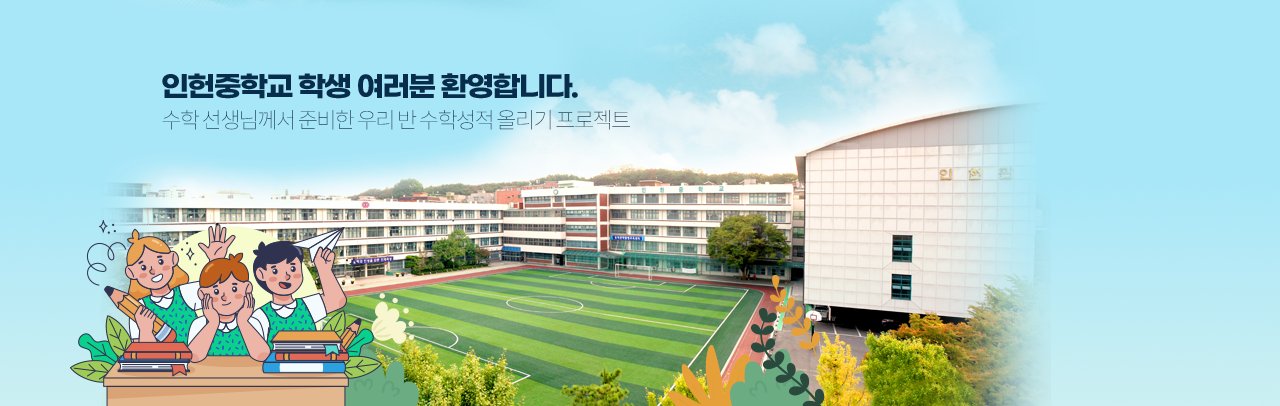
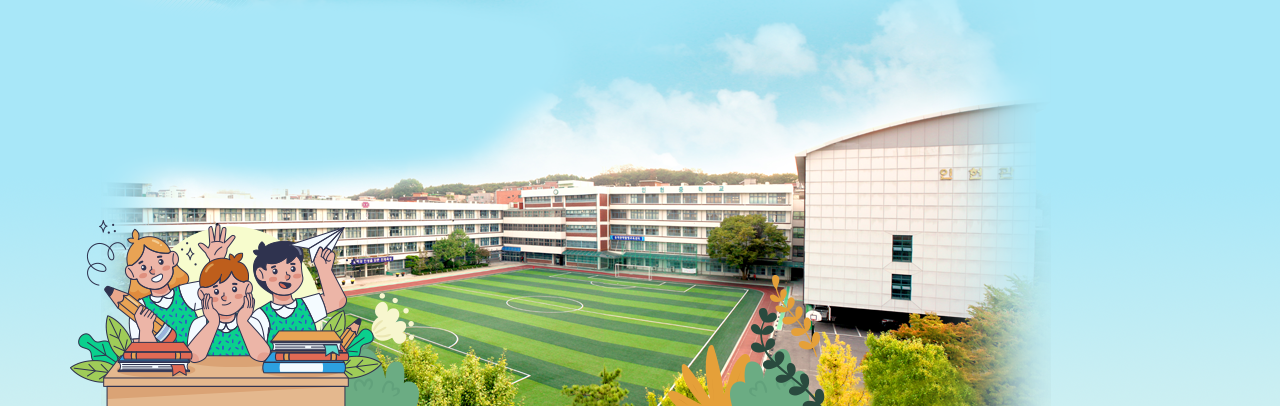
랜딩페이지 수정

Changed region(s): [[0.125, 0.1773, 0.5, 0.3251]]

diff --git a/howhyclass/student/landings/theme.css b/howhyclass/student/landings/theme.css
@@ -8772,10 +8772,37 @@ h1,.h1,h2,.h2,h3,.h3,h4,.h4,h5,.h5,h6,.h6 {font-family: "Noto Sans KR", 'SUIT', 
     max-width: 1440px;
     margin: 0 auto;
     
-    .section-heading:first-of-type{display: none;}
-    .section-intro{display: none;}
+    .section-heading:first-of-type{
+        font-family: var(--font-gmarket);
+        font-size: 28px !important;
+        line-height: 1;
+        color: #082c4b;
+        margin: 0 0 5px !important;
+    }
+    .section-intro{
+        font-size: 22px;
+        line-height: 1;
+        letter-spacing: -1px;
+    }
 
-    .section-heading:not(:first-of-type){
+    .text-box{
+        width: 1280px;
+        max-width: calc(100% - 40px);
+        position: absolute;
+        top: 145px; left: 50%;
+        transform: translateX(-50%);
+        z-index: 99;
+        padding-left: 60px;
+        box-sizing: border-box;
+        .section-heading{text-align: left !important;}
+        .section-intro{
+            max-width: none;
+            text-align: left !important;
+        }
+    }
+
+    .section-heading:not(:first-of-type),
+    .section-heading2{
         background: var(--main-color-blue);
         font-family: var(--font-gmarket);
         color: #fff;
@@ -8786,7 +8813,7 @@ h1,.h1,h2,.h2,h3,.h3,h4,.h4,h5,.h5,h6,.h6 {font-family: "Noto Sans KR", 'SUIT', 
         border-radius: 30px 30px 0 0;
         position: relative;
         margin-bottom: 335px !important;
-        &::after{
+        &::before{
             content: '';
             display: block;
             width: 100%;
@@ -9053,8 +9080,7 @@ h1,.h1,h2,.h2,h3,.h3,h4,.h4,h5,.h5,h6,.h6 {font-family: "Noto Sans KR", 'SUIT', 
     .drop-box-content {
         display: none;
         position: absolute;
-        bottom: 110%;
-        left: 0%;
+        bottom: 110%; left: 0%;
         width: 100%;
         border-radius: 10px;
         background: var(--Pay_White, #FFF);
@@ -9081,6 +9107,12 @@ h1,.h1,h2,.h2,h3,.h3,h4,.h4,h5,.h5,h6,.h6 {font-family: "Noto Sans KR", 'SUIT', 
     }
 }
 
+@media (max-width: 1280px) {
+    .audience-section .text-box{
+        left: 0;
+        transform: translateX(0);
+    }
+}
 @media (max-width: 1024px) {
     .hero-section .row:nth-child(2) .col-md-8 img{transform: translateX(-5%);}
     .form-section{

diff --git a/howhyclass/student/landings/index.html b/howhyclass/student/landings/index.html
@@ -47,10 +47,19 @@
     
     <section id="audience-section" class="audience-section py-5">
         <div class="container">
-            <h2 class="section-heading text-center mb-4">인헌중학교 학생 여러분 환영합니다.</h2>
-            <div class="section-intro single-col-max mx-auto text-center mb-5">수학 선생님께서 준비 한 우리 반 수학성적 올리기 프로젝트</div>
+            
+            <!-- 241216 div.text-box 추가 시작 -->
+            <div class="text-box">
+                <h2 class="section-heading text-center mb-4">인헌중학교 학생 여러분 환영합니다.</h2>
+                <div class="section-intro single-col-max mx-auto text-center mb-5">수학 선생님께서 준비 한 우리 반 수학성적 올리기 프로젝트</div>
+            </div>
+            <!-- 241216 div.text-box 추가 끝 -->
 
-            <h2 class="section-heading text-center mb-4" style="font-size:26px;">하와이클래쓰란</h2>
+            <!-- 241216 클래스 및 문구 수정 시작 -->
+            <!-- <h2 class="section-heading text-center mb-4" style="font-size:26px;">하와이클래쓰란</h2> -->
+            <h2 class="section-heading2 text-center mb-4">하와이클래쓰란?</h2>
+            <!-- 241216 클래스 및 문구 수정 끝 -->
+
             <div class="audience mx-auto">
                 <div class="item row gx-3">
                     <div class="col-auto item-icon"><i class="fas fa-user-check"></i></div>
